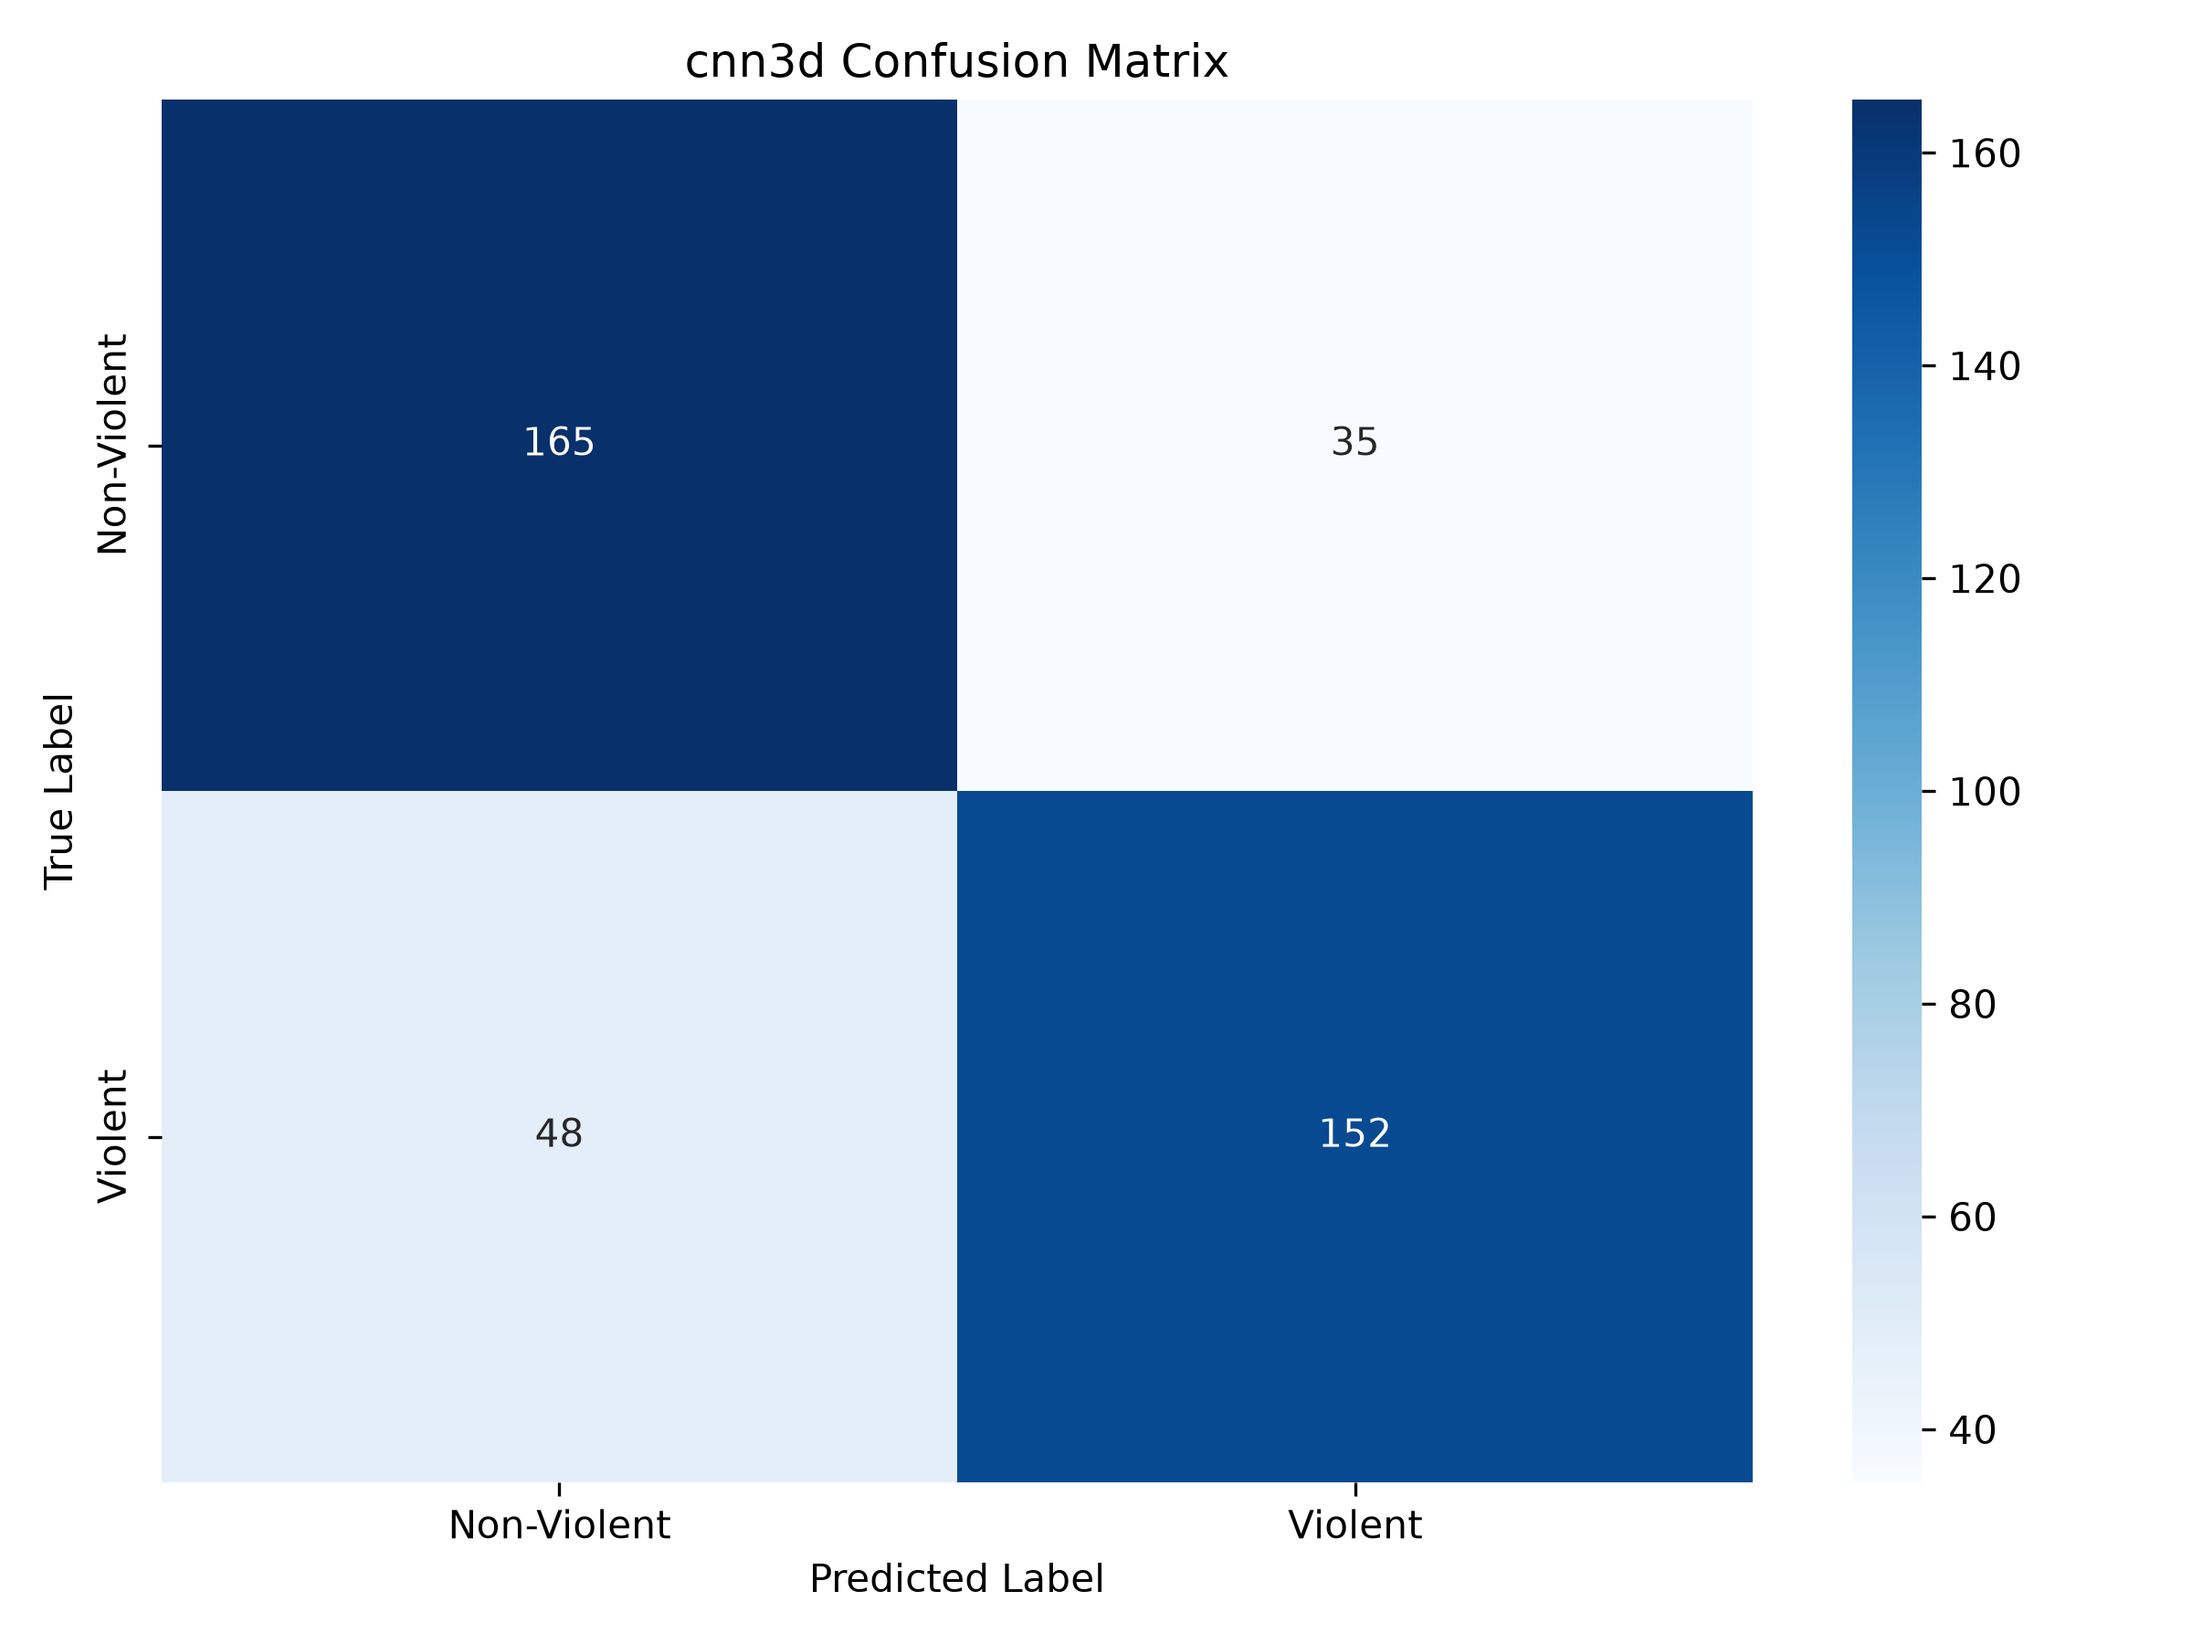
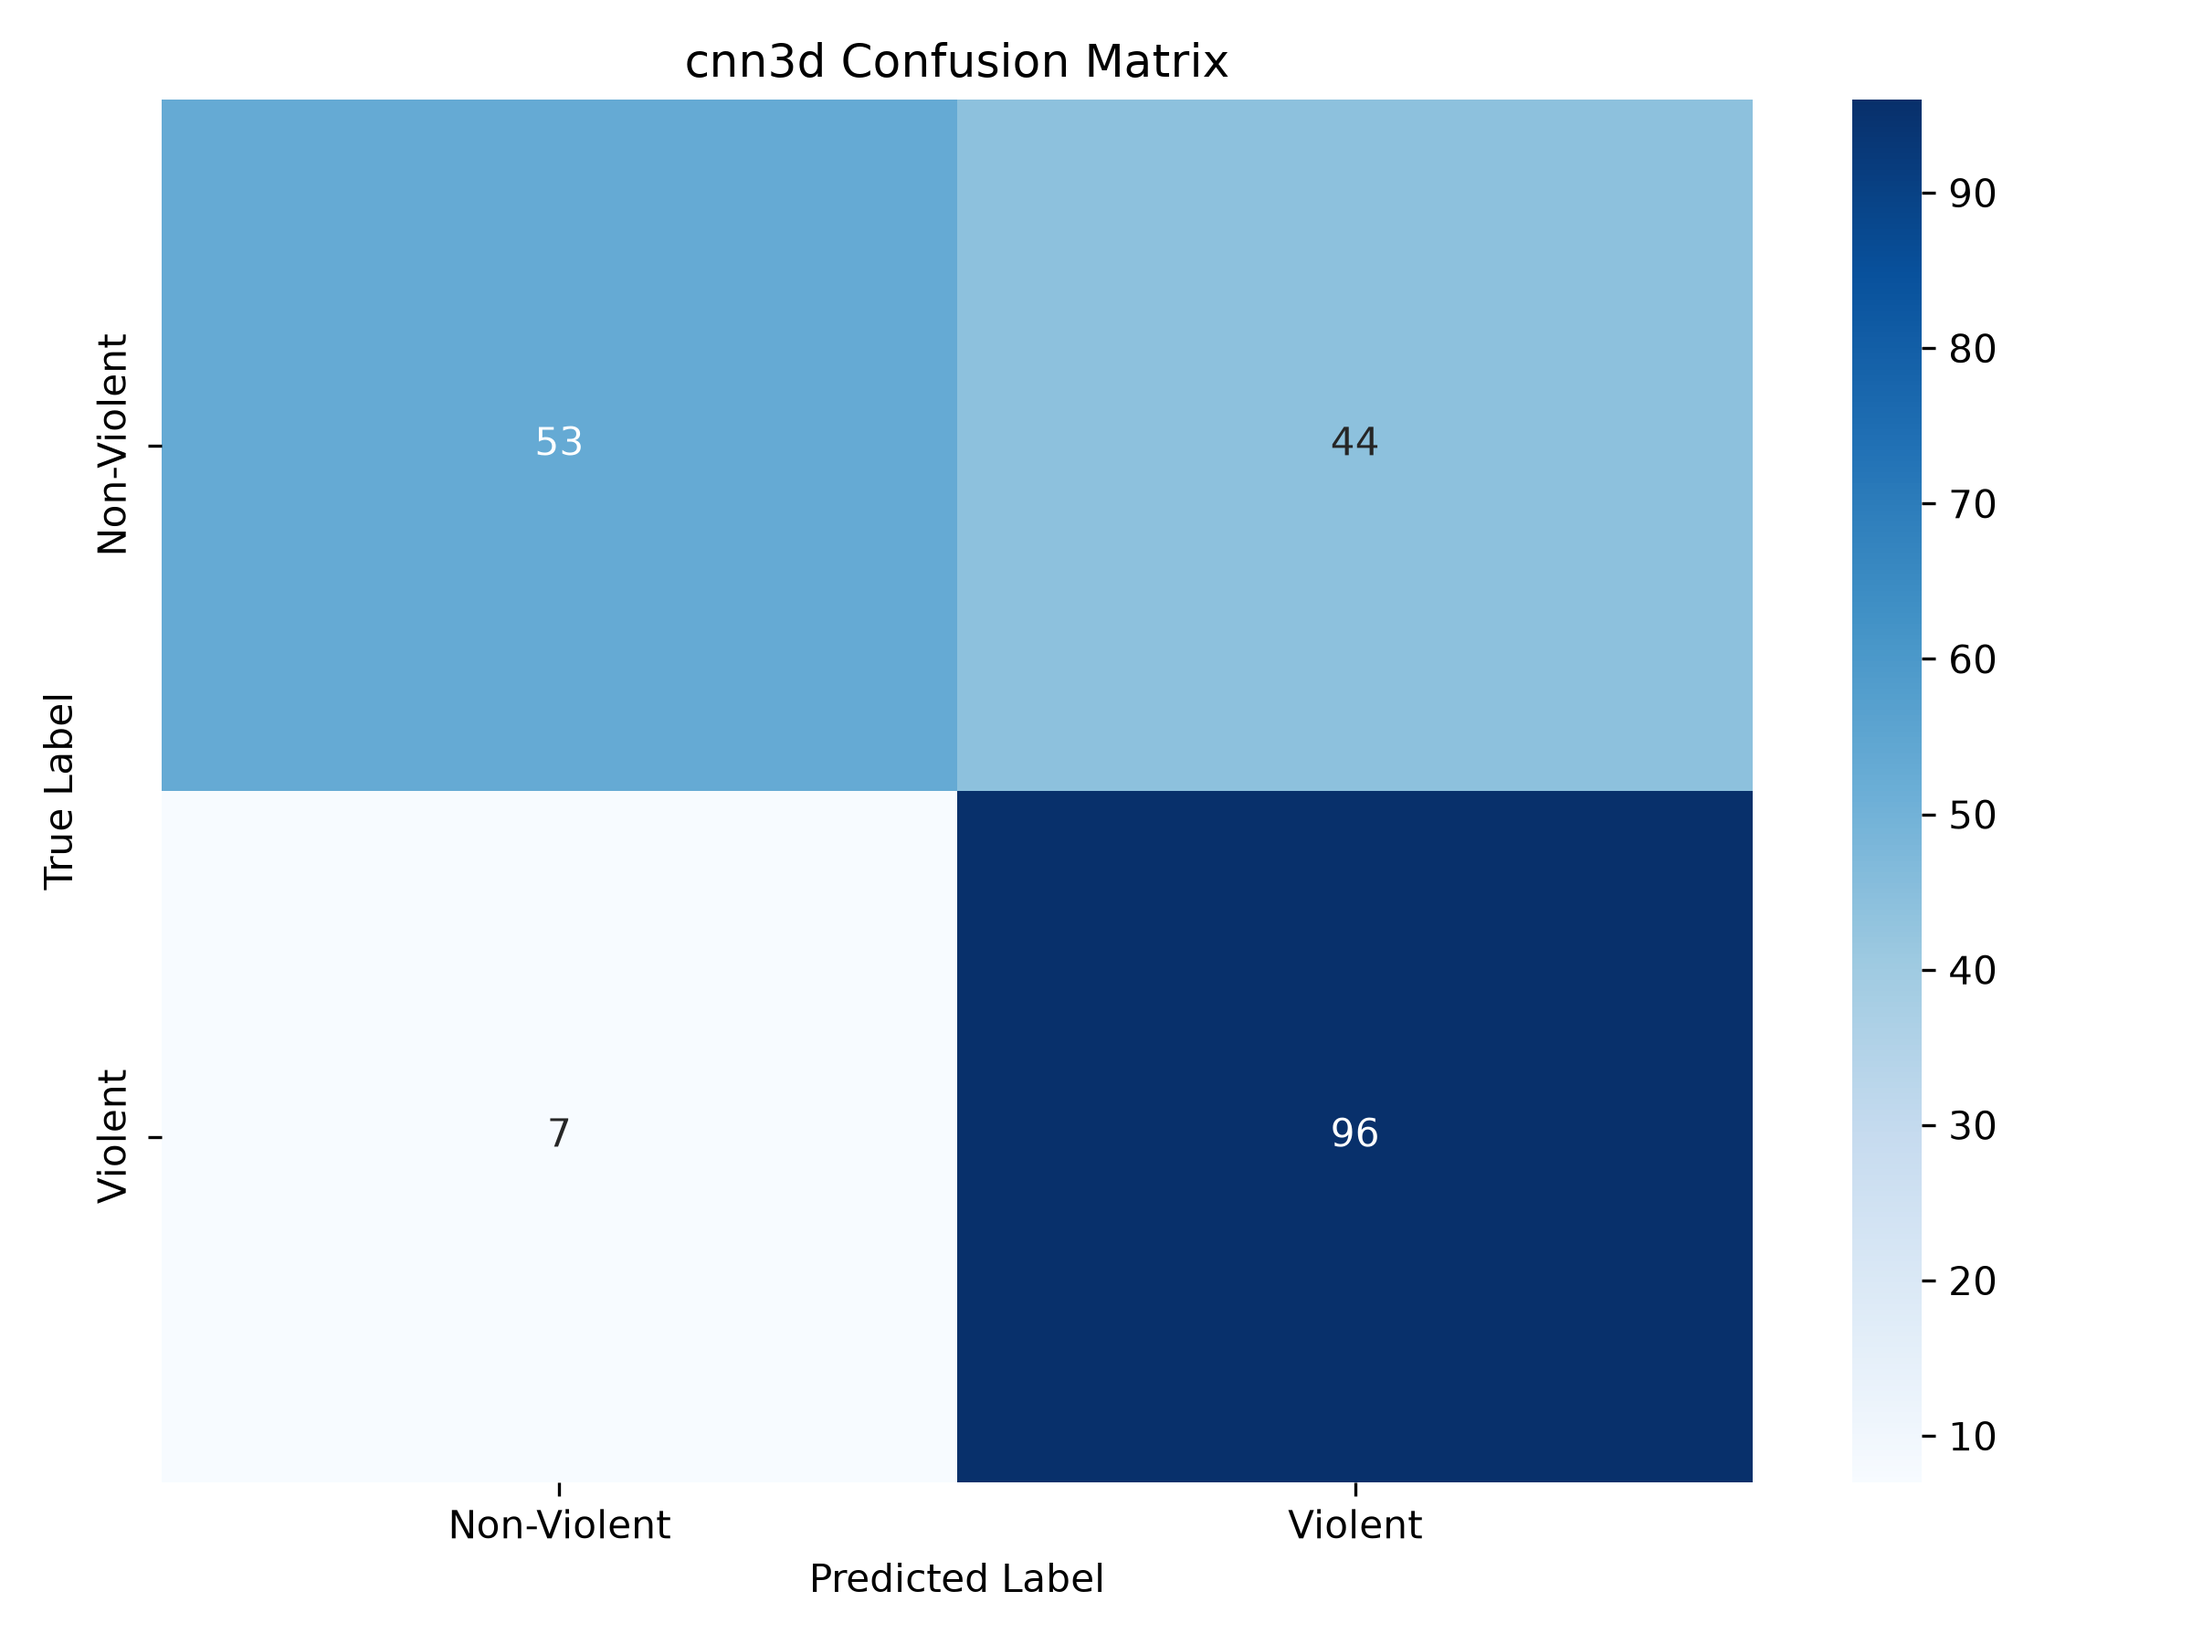
chore: resultados do evaluation dos modelos

diff --git a/train_cnn3d.py b/train_cnn3d.py
@@ -185,7 +185,7 @@ def main():
     parser.add_argument(
         "--batch_size",
         type=int,
-        default=8,
+        default=16,
         help="Tamanho do batch"
     )
     parser.add_argument(
@@ -210,7 +210,7 @@ def main():
     parser.add_argument(
         "--dropout",
         type=float,
-        default=0.3,
+        default=0.4,
         help="Taxa de dropout"
     )
     

diff --git a/compare_baseline_multimodal.py b/compare_baseline_multimodal.py
@@ -149,7 +149,7 @@ def main():
     parser.add_argument(
         "--video_model_path",
         type=str,
-        default=None,
+        default="cnn3d",
         help="Checkpoint do backbone de vídeo do multimodal (padrão: conforme o video_backbone gravado no checkpoint multimodal)"
     )
     

diff --git a/train_multimodal.py b/train_multimodal.py
@@ -74,7 +74,7 @@ def main():
     parser.add_argument(
         "--batch_size",
         type=int,
-        default=8,
+        default=16,
         help="Tamanho do batch"
     )
     parser.add_argument(
